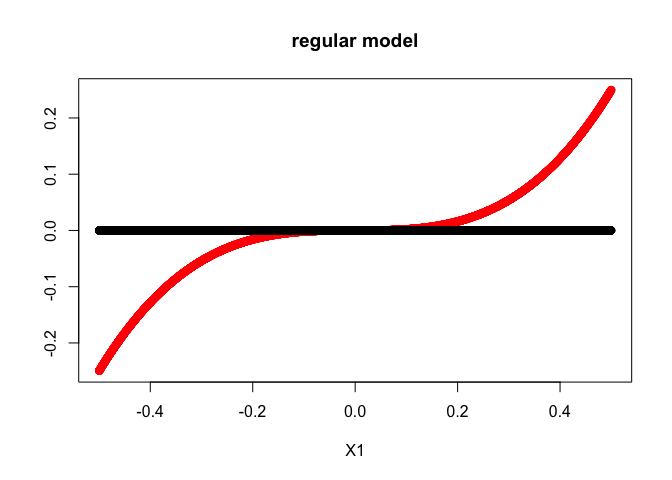
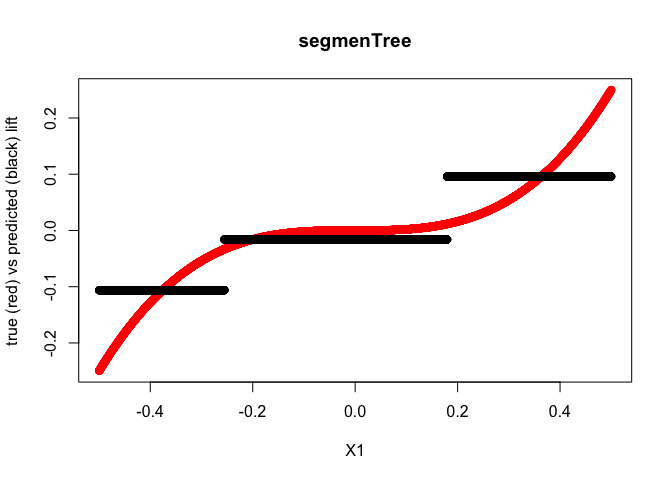
updated readme, several small fixes

diff --git a/README.md b/README.md
@@ -1,7 +1,7 @@
 segmenTree package
 ================
 Iyar Lin
-21 April, 2020
+26 April, 2020
 
 The segmenTree package implements a decision tree based algorithm for
 exploration of heterogeneous treatment effects in Randomised Controlled
@@ -18,8 +18,9 @@ Let’s generate a dataset:
 
 ``` r
 set.seed(1) # vary this and the sample size to get a sense of the model performance
+# Generate a dataset
 p_x <- function(Tr, X1, X2, X3){
-  lp <- -X1 + 0.2*X2 + as.numeric(X3)/6
+  lp <- 2*X1 + 0.2*X2 + as.numeric(X3)/6
   0.25 + 2*Tr*X1^3 + 0.5*exp(lp)/(1+exp(lp))
 }
 
@@ -34,36 +35,48 @@ y_mat <- cbind(y, Tr)
 dat <- data.frame(y = I(y_mat), X1, X2, X3)
 ```
 
-Next, let’s import the lift method and use rpart to fit a causal tree:
+Next, let’s import the lift method and use rpart to fit a segment tree:
 
 ``` r
 lift_method <- import_lift_method()
-causal_tree <- rpart(y ~ ., data = dat,
+segment_tree <- rpart(y ~ ., data = dat,
               method = lift_method,
-              control = rpart.control(cp = 0.001),
-              parms = list(), y = T)
+              control = rpart.control(cp = 0),
+              parms = list(), y = T, x = T)
 ```
 
-We used `cp = 0.001` above based on some experimentation. A function for
-tuning the `cp` paramter using cross validation is in the works.
+Next, we prune the tree. The package includesd 2 functions to do so:
+`tune_cp` and `cp_elbow`. We’ll use the `cp_elbow` function which uses
+the elbow method along with elbow strength to find the optimal cp:
+
+``` r
+optimal_cp <- cp_elbow(segment_tree)
+```
+
+![](README_files/figure-gfm/unnamed-chunk-4-1.png)<!-- -->
+
+``` r
+# prune:
+segment_tree <- prune(segment_tree, cp = optimal_cp)
+```
 
 Let’s explore the resulting segments:
 
 ``` r
-segments <- extract_segments(causal_tree, alpha = 0.15)
-pander::pandoc.table(segments)
+segments <- extract_segments(segment_tree, alpha = 0.15)
+pander::pandoc.table(segments, split.tables = Inf)
 ```
 
-|       |         segment         |  n   |   lift    | lift\_lower | lift\_upper |
-| :---: | :---------------------: | :--: | :-------: | :---------: | :---------: |
-| **3** |   X1\>=0.3228,X1\<Inf   | 1781 |  0.1152   |   0.07867   |   0.1518    |
-| **2** | X1\>=-0.4742,X1\<0.3228 | 7969 | \-0.02376 |  \-0.04125  | \-0.006277  |
-| **1** |  X1\>=-Inf,X1\<-0.4742  | 250  | \-0.3055  |  \-0.3985   |  \-0.2126   |
+|       |              segment               |  n   |   lift   | lift\_lower | lift\_upper |
+| :---: | :--------------------------------: | :--: | :------: | :---------: | :---------: |
+| **3** | X1\>=0.1796,X1\<0.499855161411688  | 3202 | 0.09588  |   0.06995   |   0.1218    |
+| **2** |      X1\>=-0.2554,X1\<0.1796       | 4328 | \-0.0161 |  \-0.03973  |  0.007539   |
+| **1** | X1\>=-0.49972922494635,X1\<-0.2554 | 2470 | \-0.1061 |  \-0.1365   |  \-0.07558  |
 
 Let’s compare the estimated lift (in black) vs the true lift (in red):
 
 ``` r
-tau <- predict(causal_tree, dat)
+tau <- predict(segment_tree, dat)
 p_treat <- p_x(rep(1, n), X1, X2, X3)
 p_cont <- p_x(rep(0, n), X1, X2, X3)
 cate <- p_treat - p_cont
@@ -75,18 +88,14 @@ points(dat$X1, cate, col = "red")
 points(dat$X1, tau)
 ```
 
-![](README_files/figure-gfm/unnamed-chunk-5-1.png)<!-- -->
+![](README_files/figure-gfm/unnamed-chunk-6-1.png)<!-- -->
 
 Just to get a sense of why we need this kind of model, let’s try to
 estimate lift by modelling both the treatment and covariates:
 
 ``` r
 dat2 <- data.frame(y, X1, X2, X3, Tr)
-fit2 <- rpart(y ~ ., data = dat2, control = rpart.control(cp = 0))
-fit2 <- rpart(y ~ ., data = dat,
-                     method = lift_method,
-                     control = rpart.control(cp = fit2$cptable[max(which(fit2$cptable[, 2] < 3)), 1]),
-                     parms = list())
+fit2 <- rpart(y ~ ., data = dat2)
 
 dat2_treat <- dat2; dat2_cont <- dat2
 dat2_treat$Tr <- 1L; dat2_cont$Tr <- 0L
@@ -99,7 +108,7 @@ points(dat$X1, cate, col = "red")
 points(dat$X1, tau2)
 ```
 
-![](README_files/figure-gfm/unnamed-chunk-6-1.png)<!-- -->
+![](README_files/figure-gfm/unnamed-chunk-7-1.png)<!-- -->
 
 Let’s also try fitting a seperate model for treatment and control:
 
@@ -119,4 +128,4 @@ points(dat$X1, cate, col = "red")
 points(dat$X1, tau3)
 ```
 
-![](README_files/figure-gfm/unnamed-chunk-7-1.png)<!-- -->
+![](README_files/figure-gfm/unnamed-chunk-8-1.png)<!-- -->
